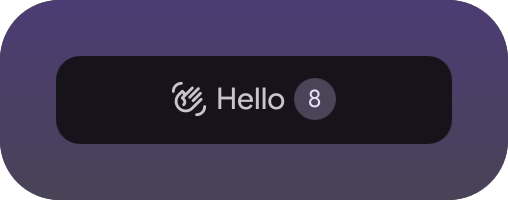
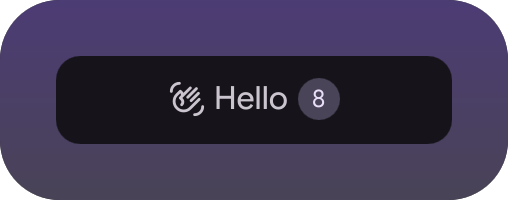
Indicator: the vertical bar too, out of the same file

Changed region(s): [[0.3248, 0.39, 0.6791, 0.6]]

diff --git a/HelloIndicator.qml b/HelloIndicator.qml
@@ -4,35 +4,47 @@ import qs.modules.widgets
 import QtQuick
 import QtQuick.Layouts
 
-/** Bar indicator: design system, sibling type, own singleton, one option. */
+/** Bar indicator: both orientations, design system, sibling type, own singleton, one option. */
 Item {
     id: root
 
     // Options default from the catalog but stay writable, so a demo scene can
     // draw every state without touching the store
     property bool badge: WidgetCatalog.option("hello", "badge") ?? false
+    // Set by the vertical bar on load, so one file covers both orientations
+    property bool vertical: false
     readonly property string greeting: HelloState.greeting
+    readonly property real barThickness: root.vertical ? Appearance.sizes.verticalBarWidth : Appearance.sizes.barHeight
 
-    implicitWidth: row.implicitWidth
-    implicitHeight: Appearance.sizes.barHeight
+    implicitWidth: root.vertical ? root.barThickness : layout.implicitWidth
+    implicitHeight: root.vertical ? layout.implicitHeight : root.barThickness
 
-    RowLayout {
-        id: row
+    GridLayout {
+        id: layout
         anchors.centerIn: parent
-        spacing: 4
+        columns: root.vertical ? 1 : -1 // One column stacks, -1 keeps a row
+        columnSpacing: 4
+        rowSpacing: 2
 
         MaterialSymbol {
+            Layout.alignment: Qt.AlignHCenter
             text: "waving_hand"
             iconSize: Appearance.font.pixelSize.larger
             color: Appearance.colors.colOnLayer1
         }
 
         StyledText {
+            Layout.alignment: Qt.AlignHCenter
+            // 46px of bar leaves no room for a word, so it elides and drops a step
+            Layout.maximumWidth: root.vertical ? root.barThickness - 8 : -1
+            elide: Text.ElideRight
             text: root.greeting
+            font.pixelSize: root.vertical ? Appearance.font.pixelSize.smaller : Appearance.font.pixelSize.normal
             color: Appearance.colors.colOnLayer1
         }
 
         HelloBadge {
+            Layout.alignment: Qt.AlignHCenter
             visible: root.badge
         }
     }

diff --git a/demo/DemoHello.qml b/demo/DemoHello.qml
@@ -1,4 +1,4 @@
-//@ probe hello -g 200x88
+//@ probe hello -g 260x140
 import ".." // The widget's own types and its HelloState singleton, via its qmldir
 import QtQuick.Layouts
 
@@ -7,17 +7,28 @@ import QtQuick.Layouts
  * builds your views with the state you want drawn, and its `checks` are the tests:
  * `qml-cases.sh -x .` asserts them, `widget-shots.sh -x .` photographs them.
  */
-ColumnLayout {
-    spacing: 0
+RowLayout {
+    spacing: 16
 
-    HelloIndicator {
-        id: plain
-        badge: false
+    ColumnLayout {
+        spacing: 0
+
+        HelloIndicator {
+            id: plain
+            badge: false
+        }
+
+        HelloIndicator {
+            id: badged
+            badge: true
+        }
     }
 
+    // What the vertical bar loads: the same file, with `vertical` set on it
     HelloIndicator {
-        id: badged
+        id: upright
         badge: true
+        vertical: true
     }
 
     function checks() {
@@ -30,6 +41,16 @@ ColumnLayout {
             {
                 "name": "the badge takes room in the bar",
                 "got": badged.implicitWidth > plain.implicitWidth,
+                "want": true
+            },
+            {
+                "name": "the vertical one stacks instead of stretching",
+                "got": upright.implicitHeight > upright.implicitWidth,
+                "want": true
+            },
+            {
+                "name": "the vertical one keeps to the bar width",
+                "got": upright.implicitWidth < badged.implicitWidth,
                 "want": true
             }
         ];

diff --git a/Manifest.qml b/Manifest.qml
@@ -7,12 +7,13 @@ WidgetManifest {
     name: Translation.tr("Hello")
     description: Translation.tr("Template widget: copy this repo to start your own")
     icon: "waving_hand"
-    version: "1.0"
+    version: "1.1"
     author: "Berupor"
-    minShellVersion: "1.0"
+    minShellVersion: "1.2" // Orientations on a bar slot, so not below 1.2
     // dependencies: ["some-cli"] // Greyed out in the catalog until they are all there
     slots: ({
-        "barIndicator": "HelloIndicator.qml"
+        // Drop an orientation and the widget stays out of that bar; a bare path means horizontal
+        "barIndicator": { "path": "HelloIndicator.qml", "orientations": ["horizontal", "vertical"] }
     })
     options: [
         {

diff --git a/README.md b/README.md
@@ -5,9 +5,9 @@ fork](https://github.com/Berupor/dots-hyprland-extensions) that is still a real
 one: a bar indicator with an option, a sibling type and its own singleton. Copy
 this repo to start your own.
 
-| In the bar | Both states |
-|---|---|
-| ![Bar indicator](docs/bar.png) | ![States](docs/states.png) |
+| In the bar | In the vertical bar | Every state |
+|---|---|---|
+| ![Bar indicator](docs/bar.png) | ![Vertical bar](docs/vertical.png) | ![States](docs/states.png) |
 
 ## What a widget is
 
@@ -30,6 +30,11 @@ start, so no file of the shell needs editing.
   `barUtilButton`, `sidebarLeftTab`, `sidebarRightTab`, `backgroundWidget`,
   `regionAction`, and `catalogView` / `settingsView` for taking a settings screen
   over. Paths are relative to the widget directory.
+- **Orientations** are what a bar slot draws for: `{"path": ..., "orientations":
+  ["horizontal", "vertical"]}`, and the vertical bar hands the file
+  `vertical: true`. One file covers both - `GridLayout { columns: vertical ? 1 :
+  -1 }`, sized off `verticalBarWidth` instead of `barHeight`. List only the one
+  you drew for and the other bar simply skips you; a bare path means horizontal.
 - **Options** are a schema in the manifest, with defaults. The settings page
   draws them for you; read them back with `WidgetCatalog.option(id, key)`. A
   `settingsPage` is only needed when the generated form is not enough.
@@ -56,6 +61,9 @@ tests/widget-probe.sh hello barIndicator -x ~/.config/illogical-impulse/widgets/
 tests/qml-cases.sh    -x ~/.config/illogical-impulse/widgets/hello
 tests/widget-shots.sh -x ~/.config/illogical-impulse/widgets/hello
 ```
+
+The vertical bar is the same probe with the property set and its own host:
+`-p vertical=true -H vbar -g 46x110`.
 
 `git config core.hooksPath .githooks` runs the cases and redraws the shots on
 push, so the README never shows a widget you no longer have.
